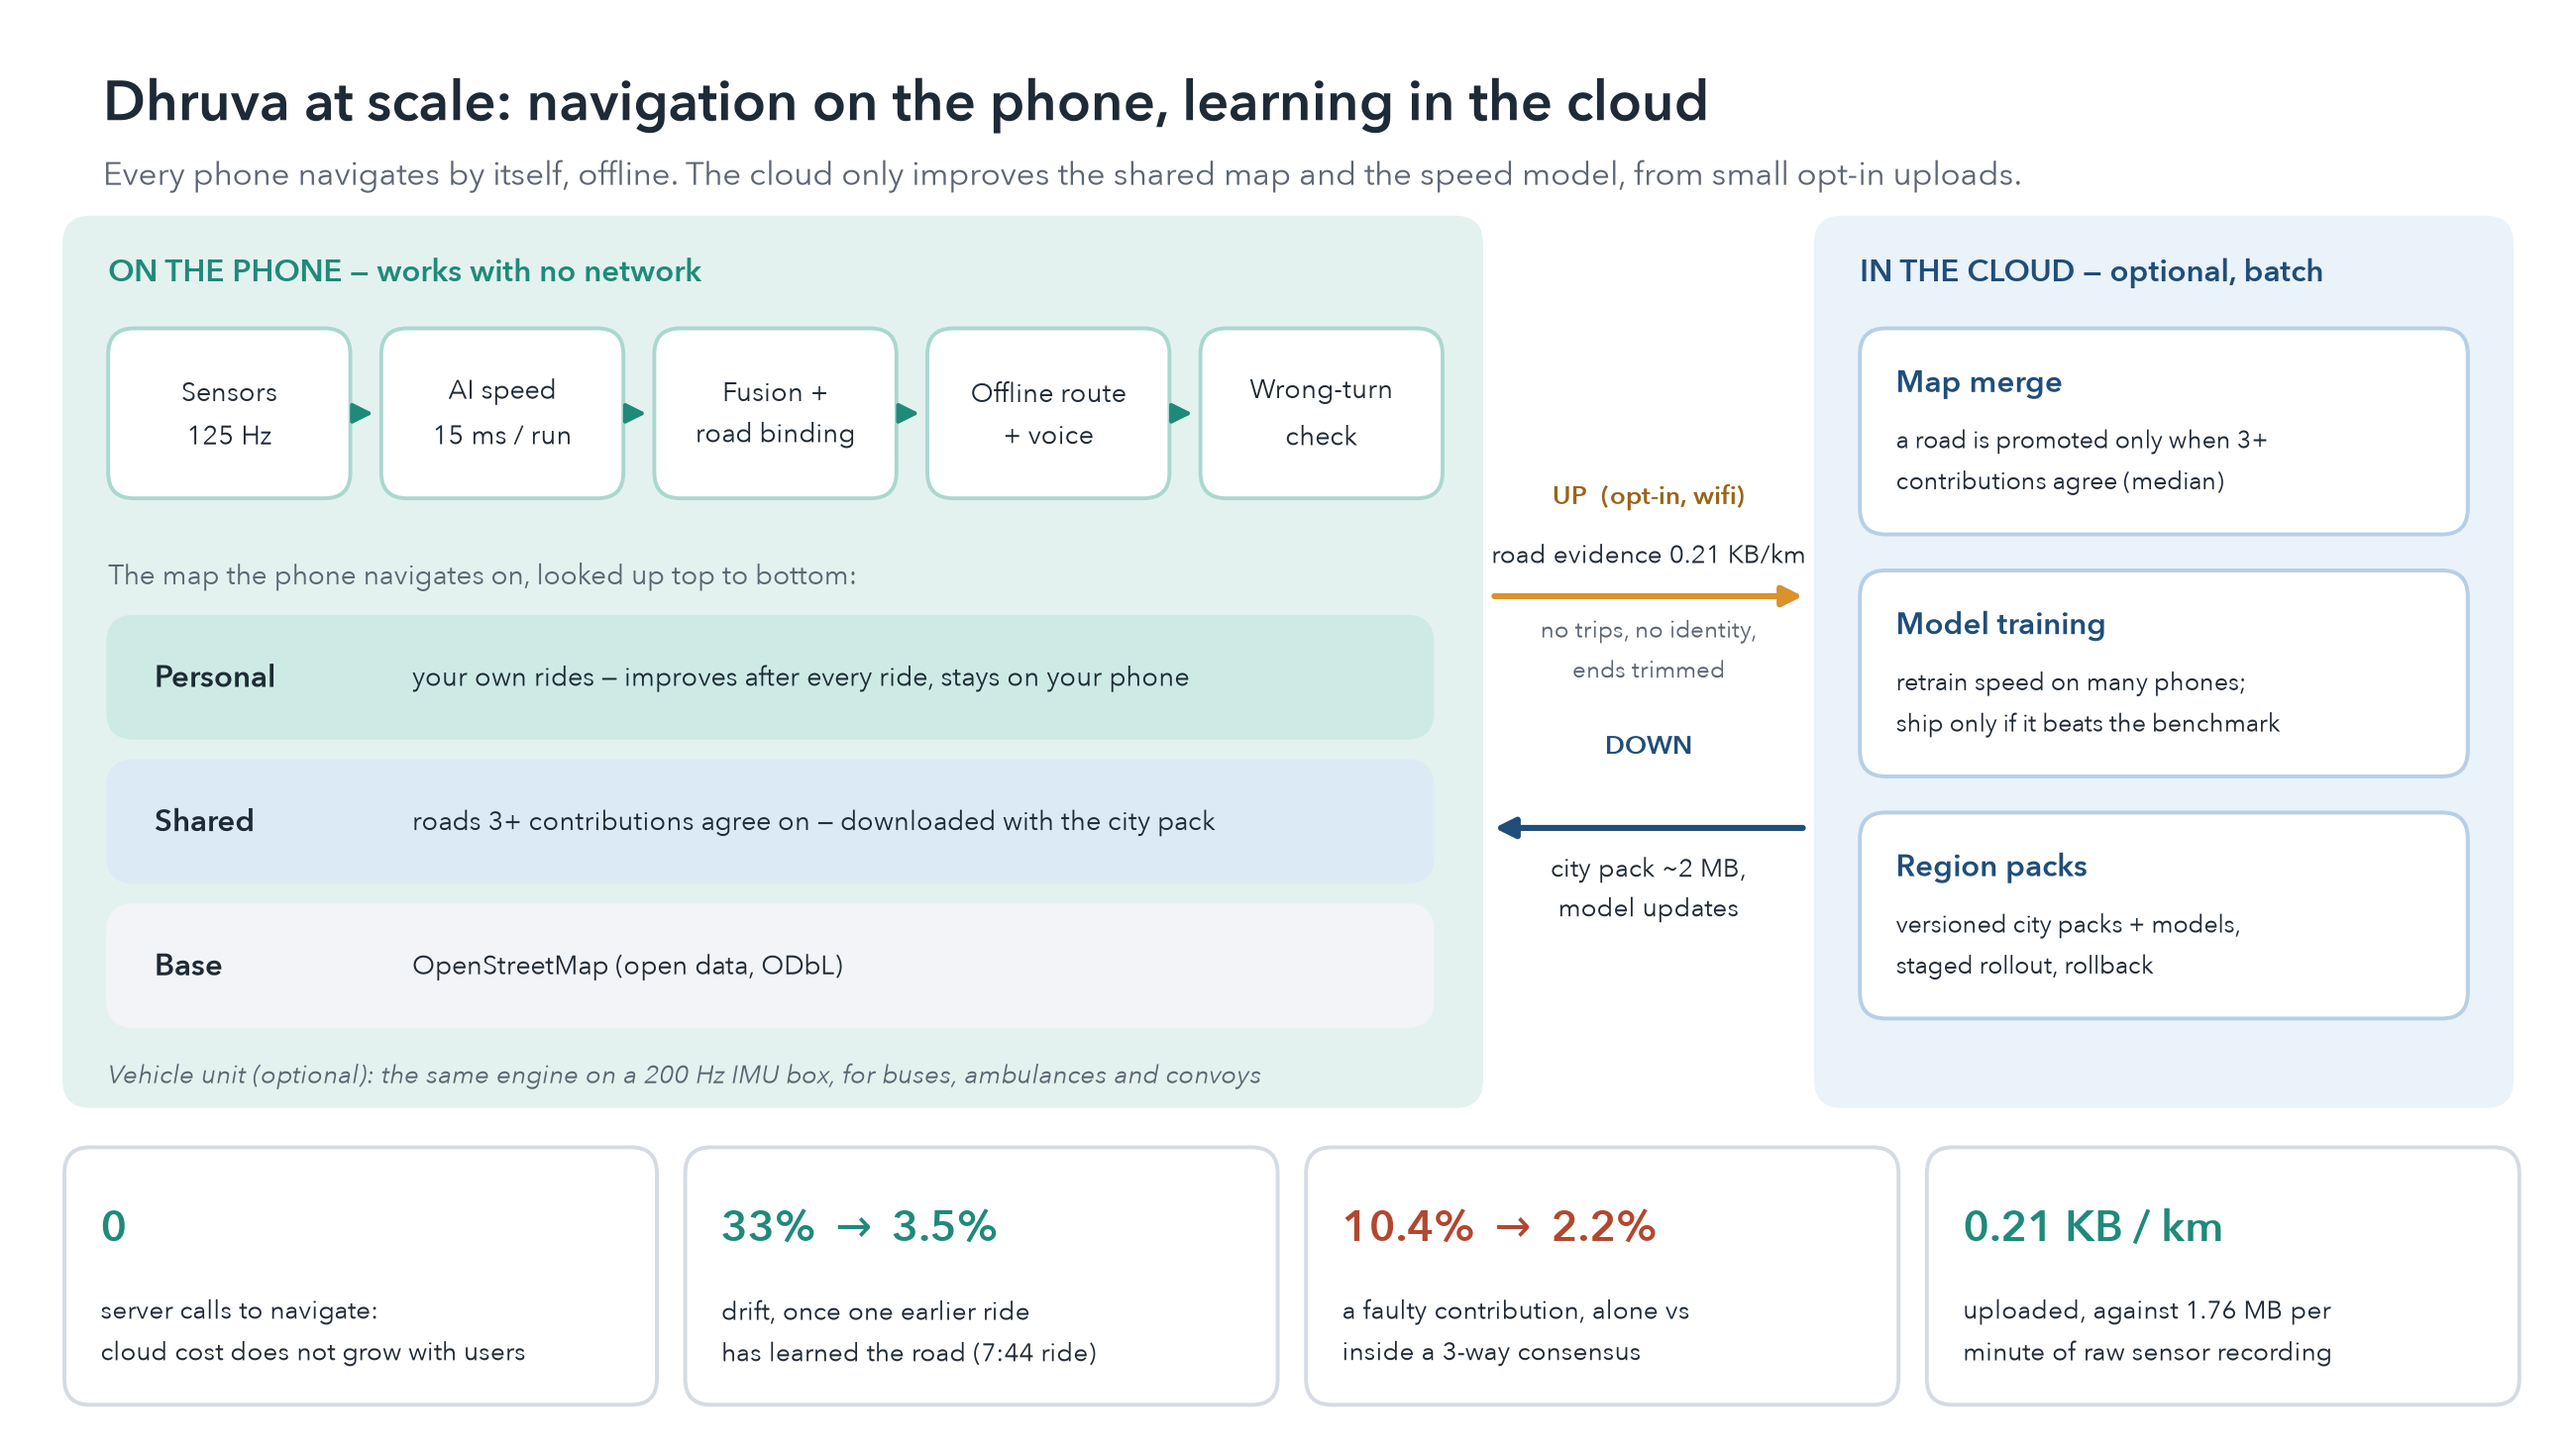
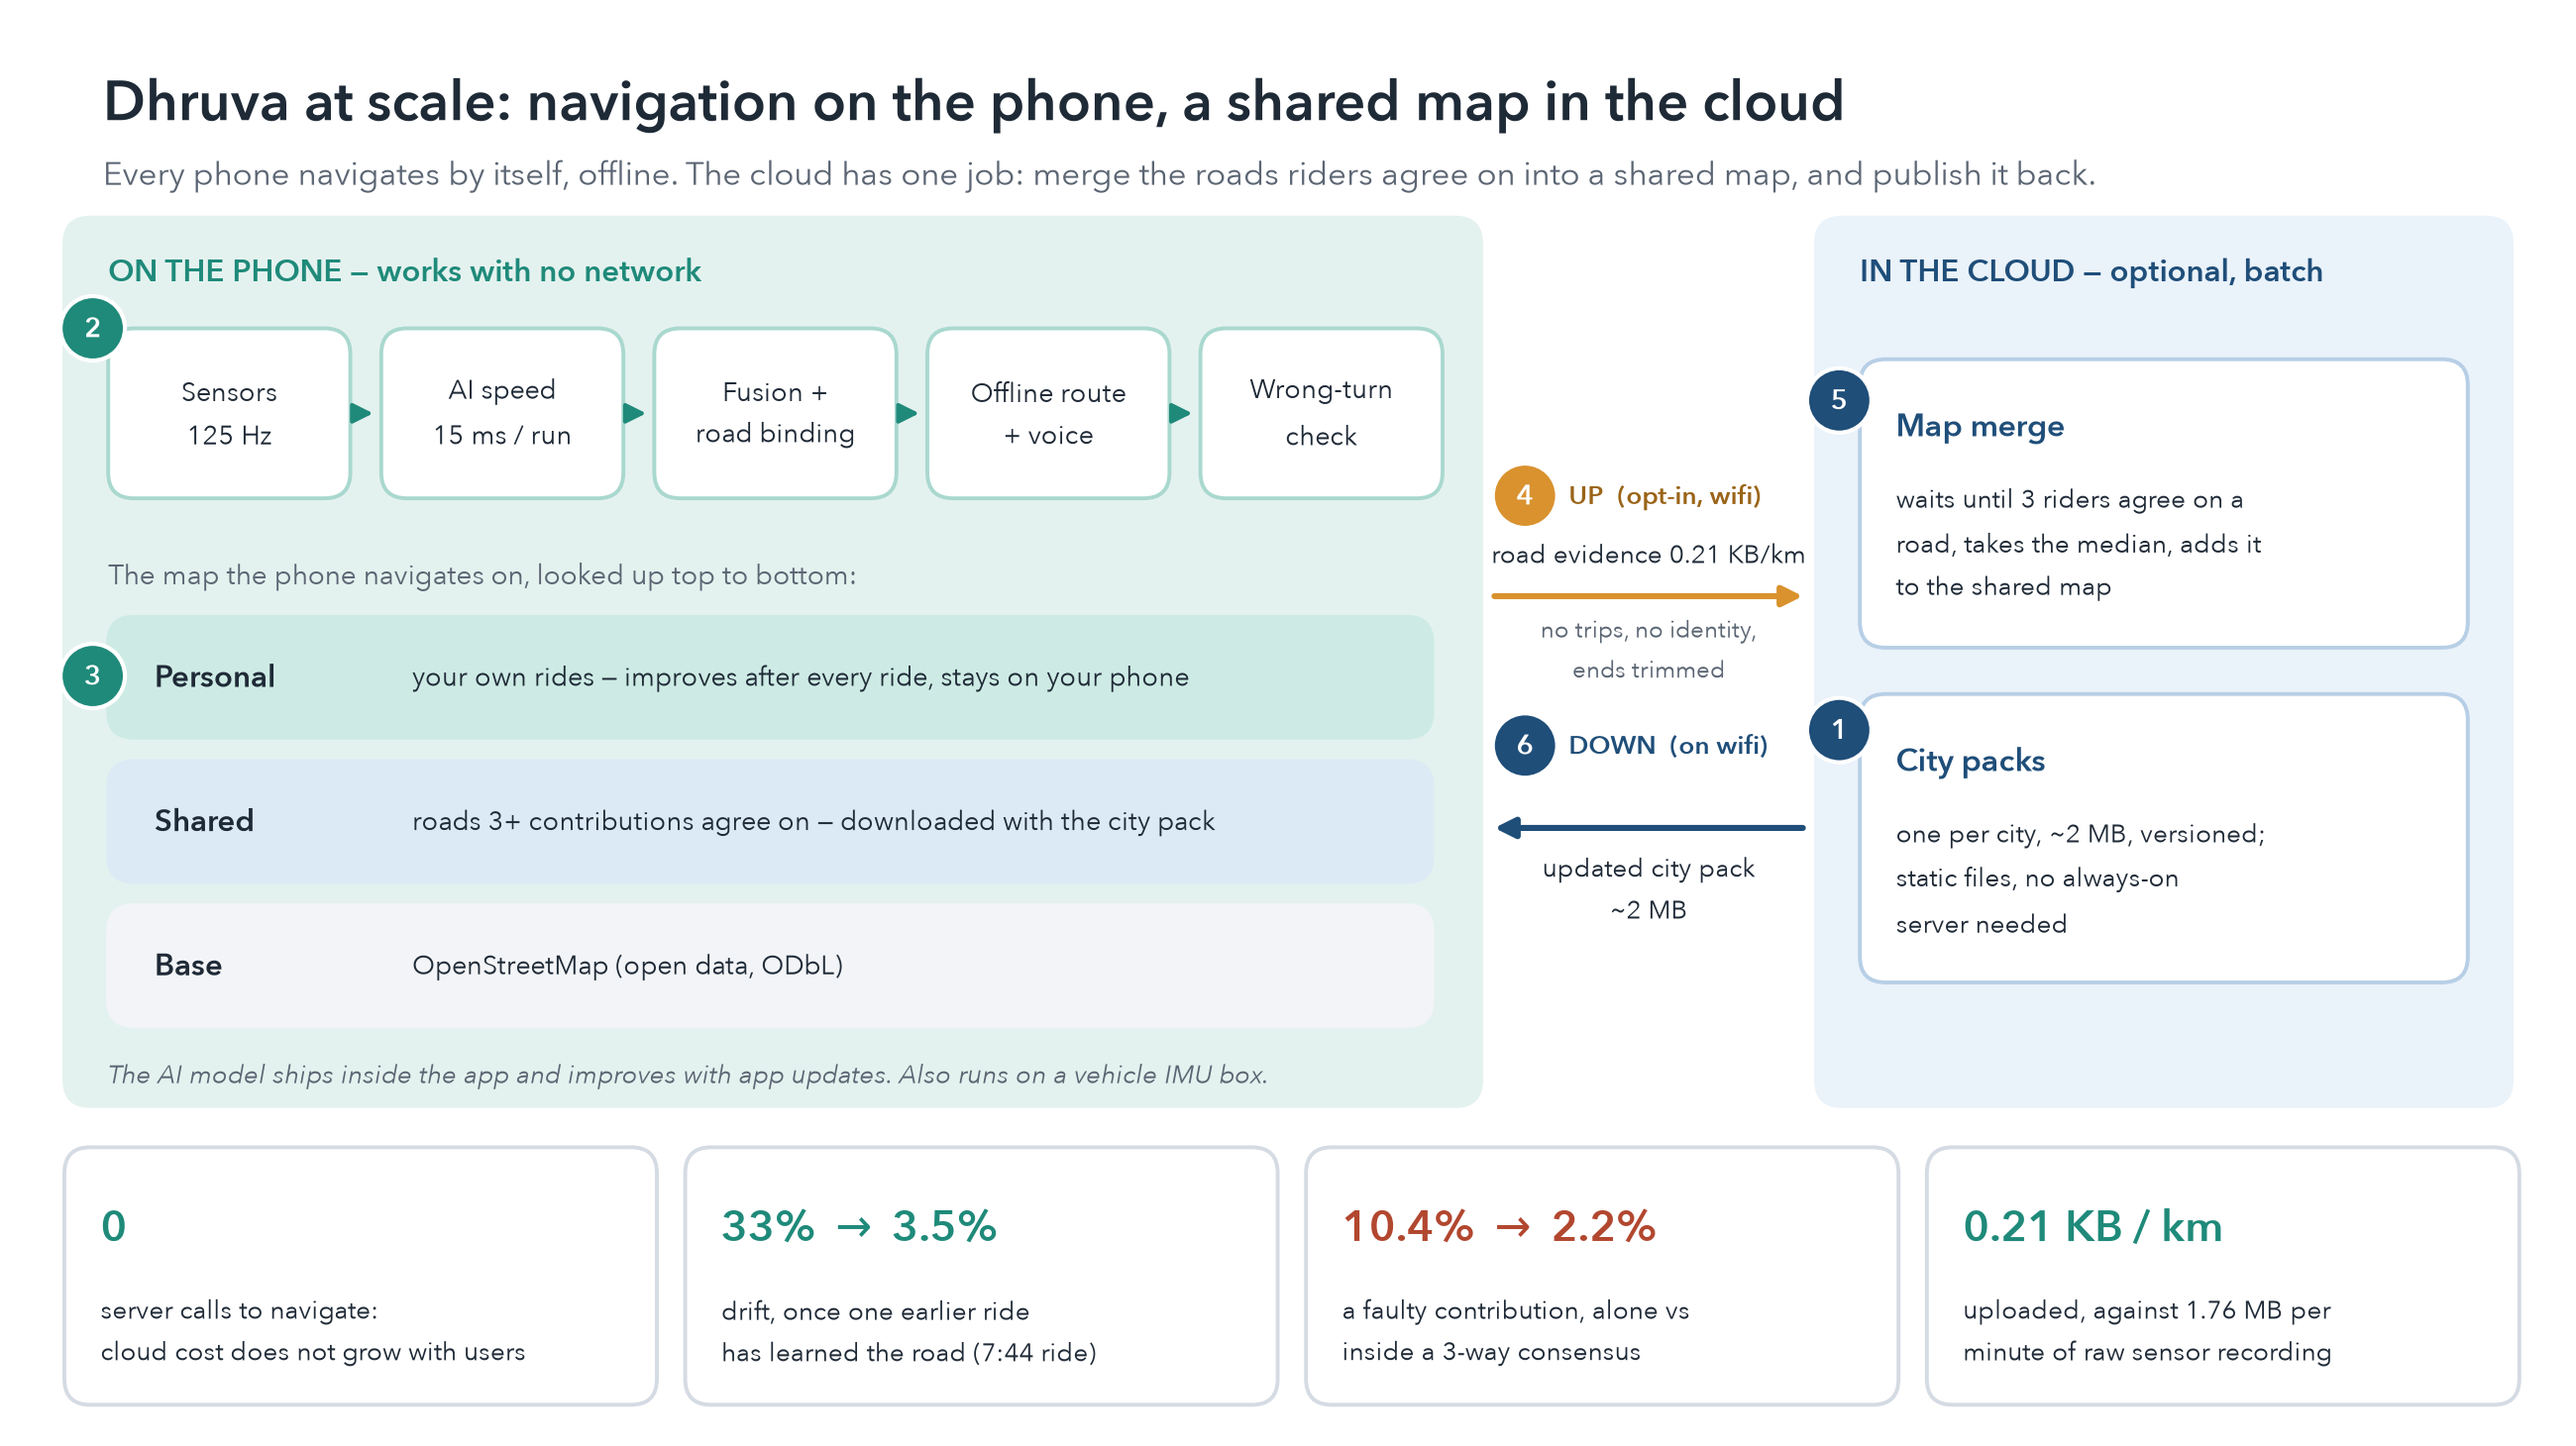
System design, simplified: the cloud only merges road shapes and publishes city packs
Cloud model training removed; the speed model ships in the app and improves with app updates. The trip
is numbered 1-6 on the diagram: download the pack, navigate offline, learn your road, upload its shape,
merge when 3 riders agree, everyone gets the update.

diff --git a/engine/scripts/make_system_design.py b/engine/scripts/make_system_design.py
@@ -16,15 +16,21 @@ LTEAL, LAMBER, LBLUE, LGREY = "#E4F2EF", "#FBF1E1", "#EAF2FA", "#F2F4F7"
 plt.rcParams.update({"font.family": "Avenir Next", "savefig.dpi": 200})
 
 fig = plt.figure(figsize=(13, 7.3)); ax = fig.add_axes([0, 0, 1, 1]); ax.set_xlim(0, 100); ax.set_ylim(0, 56.15); ax.axis("off")
-fig.text(0.04, 0.955, "Dhruva at scale: navigation on the phone, learning in the cloud", fontsize=20, fontweight="demibold",
+fig.text(0.04, 0.955, "Dhruva at scale: navigation on the phone, a shared map in the cloud", fontsize=20, fontweight="demibold",
          color=INK, va="top")
-fig.text(0.04, 0.895, "Every phone navigates by itself, offline. The cloud only improves the shared map and the speed model, "
-         "from small opt-in uploads.", fontsize=12, color=MUTED, va="top")
+fig.text(0.04, 0.895, "Every phone navigates by itself, offline. The cloud has one job: merge the roads riders agree on "
+         "into a shared map, and publish it back.", fontsize=12, color=MUTED, va="top")
 
 
 def box(x, y, w, h, fill, edge=None, dashed=False, r=1.0, lw=1.4):
     ax.add_patch(FancyBboxPatch((x, y), w, h, boxstyle=f"round,pad=0,rounding_size={r}", fc=fill,
                                 ec=edge or fill, lw=lw, ls=(0, (4, 3)) if dashed else "-"))
+
+
+def step(x, y, n, color=INK):
+    """A numbered step of the trip, in order."""
+    ax.add_patch(plt.Circle((x, y), 1.25, fc=color, ec="white", lw=1.5, zorder=5))
+    ax.text(x, y, str(n), fontsize=10, fontweight="demibold", color="white", ha="center", va="center", zorder=6)
 
 
 def arrow(x0, y0, x1, y1, color=INK, lw=2.0):
@@ -51,29 +57,36 @@ for i, (name, desc, col) in enumerate(layers):
     box(4.2, y, 51.4, 4.7, col)
     ax.text(6.0, y + 2.35, name, fontsize=11, fontweight="demibold", color=INK, va="center")
     ax.text(16.0, y + 2.35, desc, fontsize=9.8, color=INK, va="center")
-ax.text(4.2, 14.4, "Vehicle unit (optional): the same engine on a 200 Hz IMU box, for buses, ambulances and convoys",
+ax.text(4.2, 14.4, "The AI model ships inside the app and improves with app updates. Also runs on a vehicle IMU box.",
         fontsize=9.2, color=MUTED, va="center", style="italic")
 
 # ------------------------------------------------------------------ CLOUD
 box(70.5, 13.2, 27, 34.5, LBLUE)
 ax.text(72.2, 45.6, "IN THE CLOUD — optional, batch", fontsize=11, fontweight="demibold", color=NAVY, va="center")
-cloud = [("Map merge", "a road is promoted only when 3+\ncontributions agree (median)"),
-         ("Model training", "retrain speed on many phones;\nship only if it beats the benchmark"),
-         ("Region packs", "versioned city packs + models,\nstaged rollout, rollback")]
+cloud = [("Map merge", "waits until 3 riders agree on a\nroad, takes the median, adds it\nto the shared map"),
+         ("City packs", "one per city, ~2 MB, versioned;\nstatic files, no always-on\nserver needed")]
 for i, (name, desc) in enumerate(cloud):
-    y = 35.4 - i * 9.4
-    box(72.2, y, 23.6, 8.0, "white", edge="#B7CFE6")
-    ax.text(73.6, y + 5.9, name, fontsize=11, fontweight="demibold", color=NAVY, va="center")
-    ax.text(73.6, y + 2.8, desc, fontsize=9.1, color=INK, va="center", linespacing=1.2)
+    y = 31.0 - i * 13.0
+    box(72.2, y, 23.6, 11.2, "white", edge="#B7CFE6")
+    ax.text(73.6, y + 8.6, name, fontsize=11.5, fontweight="demibold", color=NAVY, va="center")
+    ax.text(73.6, y + 4.0, desc, fontsize=9.3, color=INK, va="center", linespacing=1.25)
 
 # ------------------------------------------------------------------ sync arrows
 arrow(57.8, 33.0, 70.2, 33.0, color=AMBER, lw=2.2)
-ax.text(64.0, 36.9, "UP  (opt-in, wifi)", fontsize=9.5, fontweight="demibold", color="#9A6418", ha="center", va="center")
+ax.text(60.9, 36.9, "UP  (opt-in, wifi)", fontsize=9.5, fontweight="demibold", color="#9A6418", ha="left", va="center")
 ax.text(64.0, 34.6, "road evidence 0.21 KB/km", fontsize=9.2, color=INK, ha="center", va="center")
 ax.text(64.0, 30.9, "no trips, no identity,\nends trimmed", fontsize=8.6, color=MUTED, ha="center", va="center", linespacing=1.15)
 arrow(70.2, 24.0, 57.8, 24.0, color=NAVY, lw=2.2)
-ax.text(64.0, 27.2, "DOWN", fontsize=9.5, fontweight="demibold", color=NAVY, ha="center", va="center")
-ax.text(64.0, 21.6, "city pack ~2 MB,\nmodel updates", fontsize=9.2, color=INK, ha="center", va="center", linespacing=1.15)
+ax.text(60.9, 27.2, "DOWN  (on wifi)", fontsize=9.5, fontweight="demibold", color=NAVY, ha="left", va="center")
+ax.text(64.0, 21.6, "updated city pack\n~2 MB", fontsize=9.2, color=INK, ha="center", va="center", linespacing=1.15)
+
+# the trip, in order
+step(71.4, 27.8, 1, NAVY)        # 1 download the city pack
+step(3.6, 43.4, 2, TEAL)         # 2 navigate offline
+step(3.6, 29.9, 3, TEAL)         # 3 learn your road (personal layer)
+step(59.2, 36.9, 4, AMBER)       # 4 upload the road shape
+step(71.4, 40.6, 5, NAVY)        # 5 merge when 3 agree
+step(59.2, 27.2, 6, NAVY)        # 6 everyone gets it
 
 # ------------------------------------------------------------------ evidence strip
 facts = [("0", "server calls to navigate:\ncloud cost does not grow with users"),
